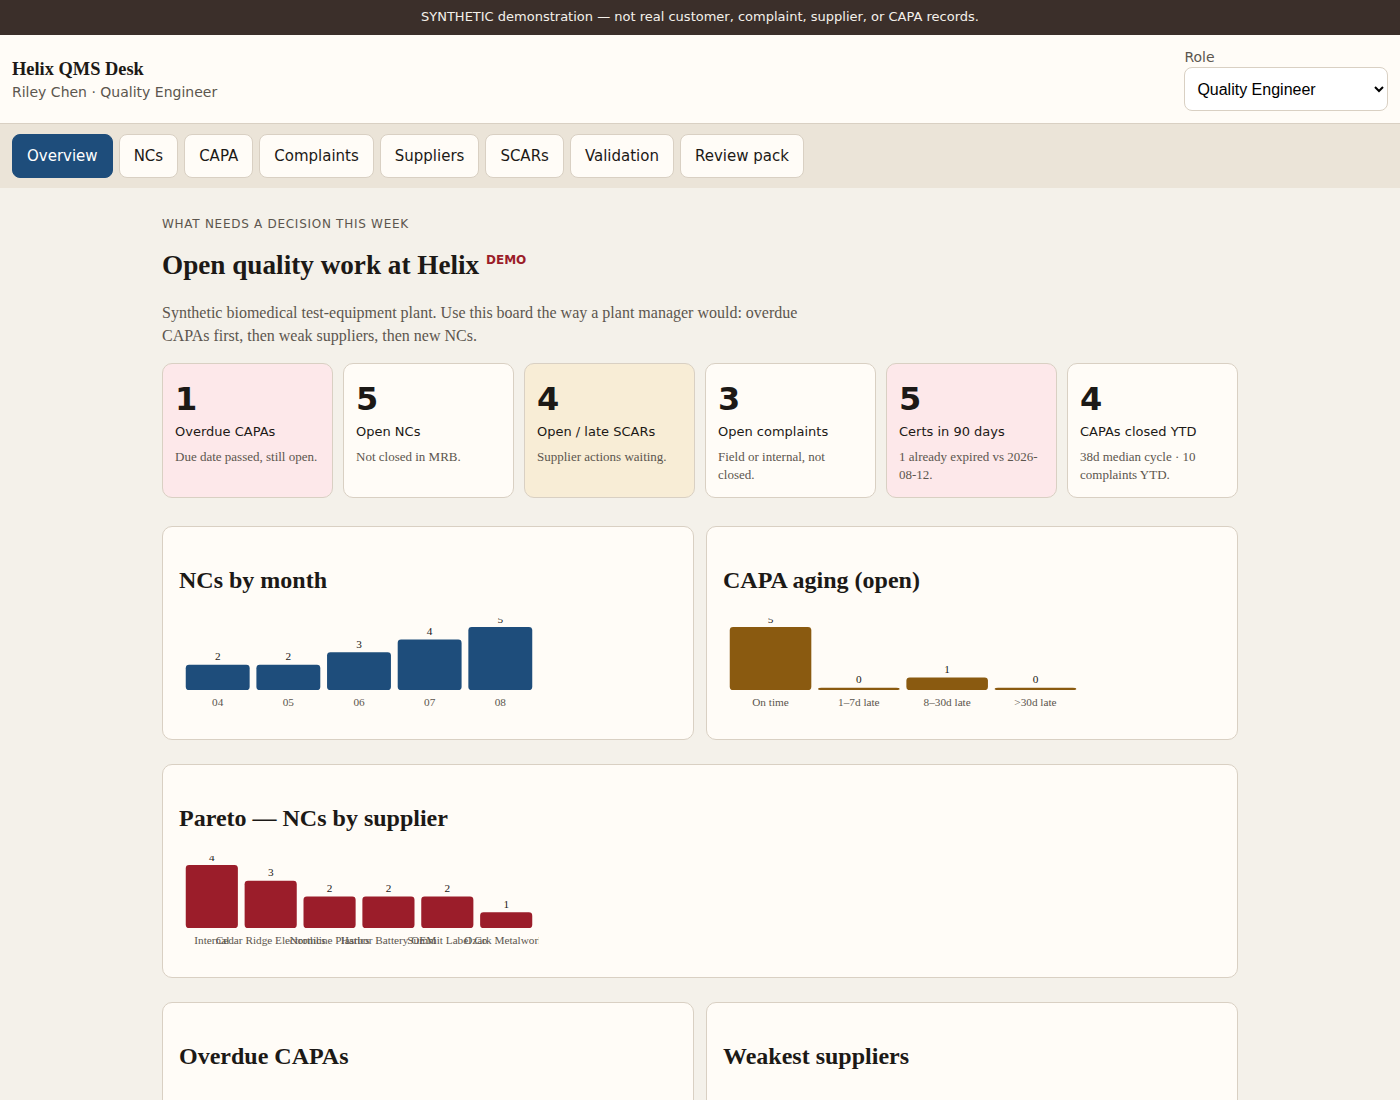
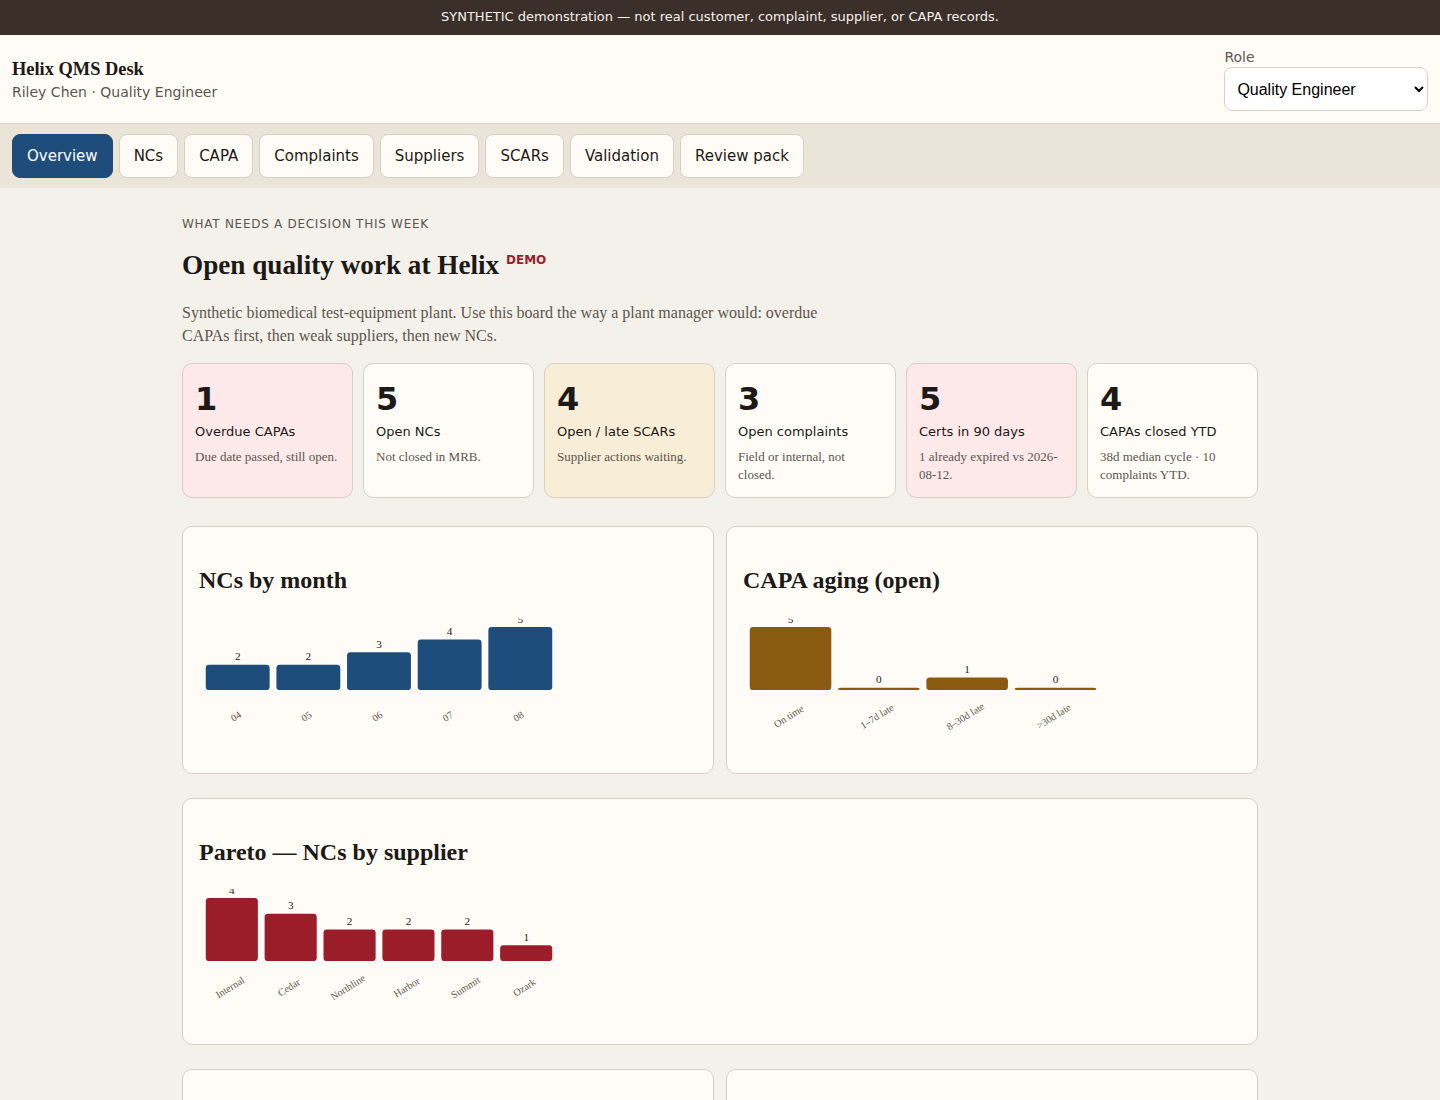
Fix overlapping Pareto labels, recapture overview, add Pages try-it.

diff --git a/js/kpis.js b/js/kpis.js
@@ -105,7 +105,7 @@
   function svgBars(items, color) {
     const max = Math.max(1, ...items.map((i) => i.n));
     const w = 320;
-    const h = 88;
+    const h = 118;
     const gap = 6;
     const bw = (w - gap * (items.length + 1)) / Math.max(1, items.length);
     const bars = items
@@ -113,11 +113,15 @@
         const bh = Math.max(2, (it.n / max) * 56);
         const x = gap + i * (bw + gap);
         const y = 64 - bh;
+        const raw = String(it.label || "");
+        const label = raw.length > 10 ? raw.split(/\s+/)[0].slice(0, 9) : raw;
+        const tip = raw.replace(/"/g, "");
         return (
-          '<g><rect x="' + x + '" y="' + y + '" width="' + bw + '" height="' + bh +
+          '<g><title>' + tip + '</title><rect x="' + x + '" y="' + y + '" width="' + bw + '" height="' + bh +
           '" rx="3" fill="' + (color || "#1e4d7b") + '"></rect>' +
-          '<text x="' + (x + bw / 2) + '" y="78" text-anchor="middle" font-size="10" fill="#5c564e">' +
-          it.label + "</text>" +
+          '<text x="' + (x + bw / 2) + '" y="90" text-anchor="middle" font-size="9" fill="#5c564e" transform="rotate(-32 ' +
+          (x + bw / 2) + ' 90)">' +
+          label + "</text>" +
           '<text x="' + (x + bw / 2) + '" y="' + (y - 4) + '" text-anchor="middle" font-size="10" fill="#1c1916">' +
           it.n + "</text></g>"
         );

diff --git a/README.md b/README.md
@@ -24,6 +24,8 @@ chmod +x setup.sh
 # open http://127.0.0.1:8765/
 ```
 
+Or open **[the GitHub Pages build](https://coinupbtc.github.io/helix-qms-desk/)**.
+
 ## What the data is (so it is not “fake empty”)
 
 Helix Biomedical Instruments is a made-up OEM (pulse-ox simulators, defib analyzers, infusion testers). The seed is internally consistent:
